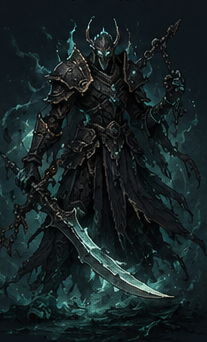
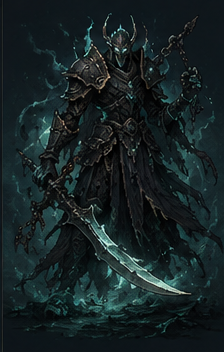
Add real pose-based character animation (idle/walk/attack/hurt)
Extracted idle/walk/attack/hurt frames for all 4 classes and 4 enemy
categories from the user's individually-separated character sheets,
plus a boss portrait and entrance-portal art. Battlefield now swaps
each unit's sprite to the matching pose on: line movement (walk),
playing a card (player attack), the enemy phase resolving (enemy
attack), and taking damage (hurt), reverting to idle after a short
flash. Verified all four transitions fire correctly via live DOM
inspection in the browser, not just visually.

diff --git a/src/ui/components/Battlefield.tsx b/src/ui/components/Battlefield.tsx
@@ -1,10 +1,13 @@
-import type { ClassId, CombatState } from '../../core/types';
+import { useEffect, useRef, useState } from 'react';
+import type { ClassId, CombatState, EnemyInstance, Line } from '../../core/types';
 import { useOrientation } from '../orientation';
 import StatusBadges from './StatusBadges';
 import './Battlefield.css';
 
 const CLASS_LABEL_KO: Record<ClassId, string> = { warden: '파수병', ember: '술사', courier: '밀사', scribe: '각인자' };
 const CLASS_LABEL_EN: Record<ClassId, string> = { warden: 'Warden', ember: 'Ember', courier: 'Courier', scribe: 'Scribe' };
+
+type Pose = 'idle' | 'walk' | 'attack' | 'hurt';
 
 function intentIcon(intent: CombatState['enemies'][number]['currentIntent']): string {
   if (!intent) return '?';
@@ -31,31 +34,158 @@ function intentValue(intent: CombatState['enemies'][number]['currentIntent']): s
   return '';
 }
 
+function enemyCategoryFor(defId: string): 'beast' | 'undead' | 'golem' | 'humanoid' | 'boss' {
+  const beast = ['rift_hound', 'rift_crawler', 'ember_wisp', 'crystal_stalker'];
+  const undead = ['warped_shade', 'void_wraith', 'rift_swarm', 'the_unmade'];
+  const golem = ['iron_colossus', 'thorn_construct', 'gravity_horror', 'rift_behemoth', 'broken_sentinel', 'crystal_warden'];
+  if (beast.includes(defId)) return 'beast';
+  if (undead.includes(defId)) return 'undead';
+  if (golem.includes(defId)) return 'golem';
+  if (defId.includes('knight') || defId.includes('sovereign') || defId.includes('heart')) return 'boss';
+  return 'humanoid';
+}
+
+function enemySpriteUrl(defId: string, pose: Pose): string {
+  const category = enemyCategoryFor(defId);
+  if (category === 'boss') return 'assets/boss/boss_riftwalker.png'; // 보스는 포즈별 프레임이 없어 정지 이미지 하나만 사용
+  return `assets/enemies/enemy_${category}_${pose}.png`;
+}
+
+function playerSpriteUrl(className: ClassId, pose: Pose): string {
+  return `assets/characters/${className}_${pose}.png`;
+}
+
+/** 특정 시점에 포즈를 잠깐 바꿨다가 자동으로 원래대로 되돌리는 훅 */
+function usePoseTimers() {
+  const timers = useRef<Map<string, ReturnType<typeof setTimeout>>>(new Map());
+  useEffect(() => {
+    const map = timers.current;
+    return () => {
+      for (const t of map.values()) clearTimeout(t);
+      map.clear();
+    };
+  }, []);
+  return timers.current;
+}
+
 interface BattlefieldProps {
   combat: CombatState;
   className: ClassId;
   locale: 'ko' | 'en';
   playerShake: boolean;
   enemyShake: string | null;
+  attackSeq: number;
   targetable: Set<string>;
   onTarget: (uid: string) => void;
 }
 
-export default function Battlefield({ combat, className, locale, playerShake, enemyShake, targetable, onTarget }: BattlefieldProps) {
+export default function Battlefield({
+  combat,
+  className,
+  locale,
+  playerShake,
+  enemyShake,
+  attackSeq,
+  targetable,
+  onTarget,
+}: BattlefieldProps) {
   const orientation = useOrientation();
   const player = combat.player;
   const frontEnemies = combat.enemies.filter((e) => e.line === 'front');
   const backEnemies = combat.enemies.filter((e) => e.line === 'back');
   const classLabel = locale === 'ko' ? CLASS_LABEL_KO[className] : CLASS_LABEL_EN[className];
-  const lineLabel = (line: 'front' | 'back') =>
-    locale === 'ko' ? (line === 'front' ? '전열' : '후열') : line === 'front' ? 'Front' : 'Back';
+  const lineLabel = (line: Line) => (locale === 'ko' ? (line === 'front' ? '전열' : '후열') : line === 'front' ? 'Front' : 'Back');
+
+  const [playerWalkFlash, setPlayerWalkFlash] = useState(false);
+  const [playerAttackFlash, setPlayerAttackFlash] = useState(false);
+  const [enemyWalkFlash, setEnemyWalkFlash] = useState<string | null>(null);
+  const [enemyAttackFlash, setEnemyAttackFlash] = useState<Set<string>>(new Set());
+
+  const timers = usePoseTimers();
+  const prevPlayerLine = useRef(player.line);
+  const prevEnemyLines = useRef<Map<string, Line>>(new Map());
+  const prevTurn = useRef(combat.turn);
+  const prevAttackSeq = useRef(attackSeq);
+
+  // 플레이어 라인 이동 → 걷기 포즈 잠깐
+  useEffect(() => {
+    if (player.line !== prevPlayerLine.current) {
+      prevPlayerLine.current = player.line;
+      setPlayerWalkFlash(true);
+      clearTimeout(timers.get('pwalk'));
+      timers.set(
+        'pwalk',
+        setTimeout(() => setPlayerWalkFlash(false), 260)
+      );
+    }
+  }, [player.line, timers]);
+
+  // 카드 사용 → 공격 포즈 잠깐
+  useEffect(() => {
+    if (attackSeq !== prevAttackSeq.current) {
+      prevAttackSeq.current = attackSeq;
+      setPlayerAttackFlash(true);
+      clearTimeout(timers.get('pattack'));
+      timers.set(
+        'pattack',
+        setTimeout(() => setPlayerAttackFlash(false), 320)
+      );
+    }
+  }, [attackSeq, timers]);
+
+  // 적 턴이 지나갈 때마다(턴 카운터 증가) 전열 생존 적에게 공격 포즈를 잠깐 부여
+  useEffect(() => {
+    if (combat.turn !== prevTurn.current) {
+      prevTurn.current = combat.turn;
+      const attackers = combat.enemies.filter((e) => e.hp > 0 && e.line === 'front').map((e) => e.uid);
+      setEnemyAttackFlash(new Set(attackers));
+      clearTimeout(timers.get('eattack'));
+      timers.set(
+        'eattack',
+        setTimeout(() => setEnemyAttackFlash(new Set()), 320)
+      );
+    }
+  }, [combat.turn, combat.enemies, timers]);
+
+  // 적 라인 이동 감지 → 걷기 포즈 잠깐
+  useEffect(() => {
+    for (const e of combat.enemies) {
+      const prev = prevEnemyLines.current.get(e.uid);
+      if (prev !== undefined && prev !== e.line) {
+        setEnemyWalkFlash(e.uid);
+        clearTimeout(timers.get('ewalk_' + e.uid));
+        timers.set(
+          'ewalk_' + e.uid,
+          setTimeout(() => setEnemyWalkFlash((cur) => (cur === e.uid ? null : cur)), 260)
+        );
+      }
+      prevEnemyLines.current.set(e.uid, e.line);
+    }
+  }, [combat.enemies, timers]);
+
+  function playerPose(): Pose {
+    if (playerShake) return 'hurt';
+    if (playerAttackFlash) return 'attack';
+    if (playerWalkFlash) return 'walk';
+    return 'idle';
+  }
+
+  function enemyPose(e: EnemyInstance): Pose {
+    if (enemyShake === e.uid) return 'hurt';
+    if (enemyAttackFlash.has(e.uid)) return 'attack';
+    if (enemyWalkFlash === e.uid) return 'walk';
+    return 'idle';
+  }
 
   const playerCard = (
     <div className={`rl-enemy rl-player ${playerShake ? 'rl-shake' : ''}`}>
       <div className="rl-enemy-name">
         {classLabel} ({lineLabel(player.line)})
       </div>
-      <div className="rl-enemy-sprite rl-player-sprite" style={{ backgroundImage: `url(assets/characters/char_${className}.png)` }} />
+      <div
+        className="rl-enemy-sprite rl-player-sprite"
+        style={{ backgroundImage: `url(${playerSpriteUrl(className, playerPose())})` }}
+      />
       <div className="rl-hpbar">
         <div
           className="rl-hpbar-fill"
@@ -70,7 +200,7 @@ export default function Battlefield({ combat, className, locale, playerShake, en
     </div>
   );
 
-  const renderEnemy = (e: (typeof combat.enemies)[number]) => (
+  const renderEnemy = (e: EnemyInstance) => (
     <div
       key={e.uid}
       className={`rl-enemy ${e.hp <= 0 ? 'rl-enemy-dead' : ''} ${targetable.has(e.uid) ? 'rl-enemy-targetable' : ''} ${
@@ -78,8 +208,8 @@ export default function Battlefield({ combat, className, locale, playerShake, en
       }`}
       onClick={() => targetable.has(e.uid) && onTarget(e.uid)}
     >
-      <div className="rl-enemy-name">{locale === 'en' ? e.nameEn ?? e.name : e.name}</div>
-      <div className="rl-enemy-sprite" style={{ backgroundImage: `url(${enemySpriteFor(e.defId)})` }} />
+      <div className="rl-enemy-name">{e.name}</div>
+      <div className="rl-enemy-sprite" style={{ backgroundImage: `url(${enemySpriteUrl(e.defId, enemyPose(e))})` }} />
       <div className="rl-hpbar">
         <div className="rl-hpbar-fill" style={{ width: `${Math.max(0, (e.hp / e.maxHp) * 100)}%` }} />
         <span className="rl-hpbar-text tabular">
@@ -125,15 +255,4 @@ export default function Battlefield({ combat, className, locale, playerShake, en
       <div className="rl-slot rl-slot-eback">{backEnemies.map(renderEnemy)}</div>
     </div>
   );
-}
-
-function enemySpriteFor(defId: string): string {
-  const beast = ['rift_hound', 'rift_crawler', 'ember_wisp', 'crystal_stalker'];
-  const undead = ['warped_shade', 'void_wraith', 'rift_swarm', 'the_unmade'];
-  const golem = ['iron_colossus', 'thorn_construct', 'gravity_horror', 'rift_behemoth', 'broken_sentinel', 'crystal_warden'];
-  if (beast.includes(defId)) return 'assets/enemies/enemy_beast.png';
-  if (undead.includes(defId)) return 'assets/enemies/enemy_undead.png';
-  if (golem.includes(defId)) return 'assets/enemies/enemy_golem.png';
-  if (defId.includes('knight') || defId.includes('sovereign') || defId.includes('heart')) return 'assets/boss/boss_riftwalker.png';
-  return 'assets/enemies/enemy_humanoid.png';
 }

diff --git a/src/ui/screens/ClassSelectScreen.tsx b/src/ui/screens/ClassSelectScreen.tsx
@@ -69,7 +69,7 @@ export default function ClassSelectScreen() {
               >
                 <div
                   className="rl-class-portrait"
-                  style={{ backgroundImage: `url(assets/characters/char_${c}.png)` }}
+                  style={{ backgroundImage: `url(assets/characters/${c}_idle.png)` }}
                 />
                 <div style={{ fontWeight: 700, marginBottom: 6 }}>{locale === 'ko' ? info.name : info.nameEn}</div>
                 <div style={{ fontSize: 11, color: 'var(--text-sub)' }}>

diff --git a/src/ui/components/Battlefield.css b/src/ui/components/Battlefield.css
@@ -103,18 +103,24 @@
 }
 
 .rl-enemy-sprite {
-  width: 56px;
-  height: 56px;
+  width: 62px;
+  height: 78px;
   margin: 0 auto 6px;
   border-radius: 8px;
   background-size: cover;
   background-position: center top;
   background-color: #1a1a22;
   border: 1px solid var(--border);
+  animation: rl-idle-bob 2.4s ease-in-out infinite;
 }
 
 .rl-player-sprite {
   background-position: center top;
+}
+
+@keyframes rl-idle-bob {
+  0%, 100% { transform: translateY(0); }
+  50% { transform: translateY(-2px); }
 }
 
 .rl-hpbar {

diff --git a/src/ui/screens/CombatScreen.tsx b/src/ui/screens/CombatScreen.tsx
@@ -114,6 +114,7 @@ export default function CombatScreen() {
           locale={locale}
           playerShake={playerShake}
           enemyShake={enemyShake}
+          attackSeq={ui.lastPlayed?.seq ?? 0}
           targetable={targetable}
           onTarget={(uid) => selectTarget(uid)}
         />
